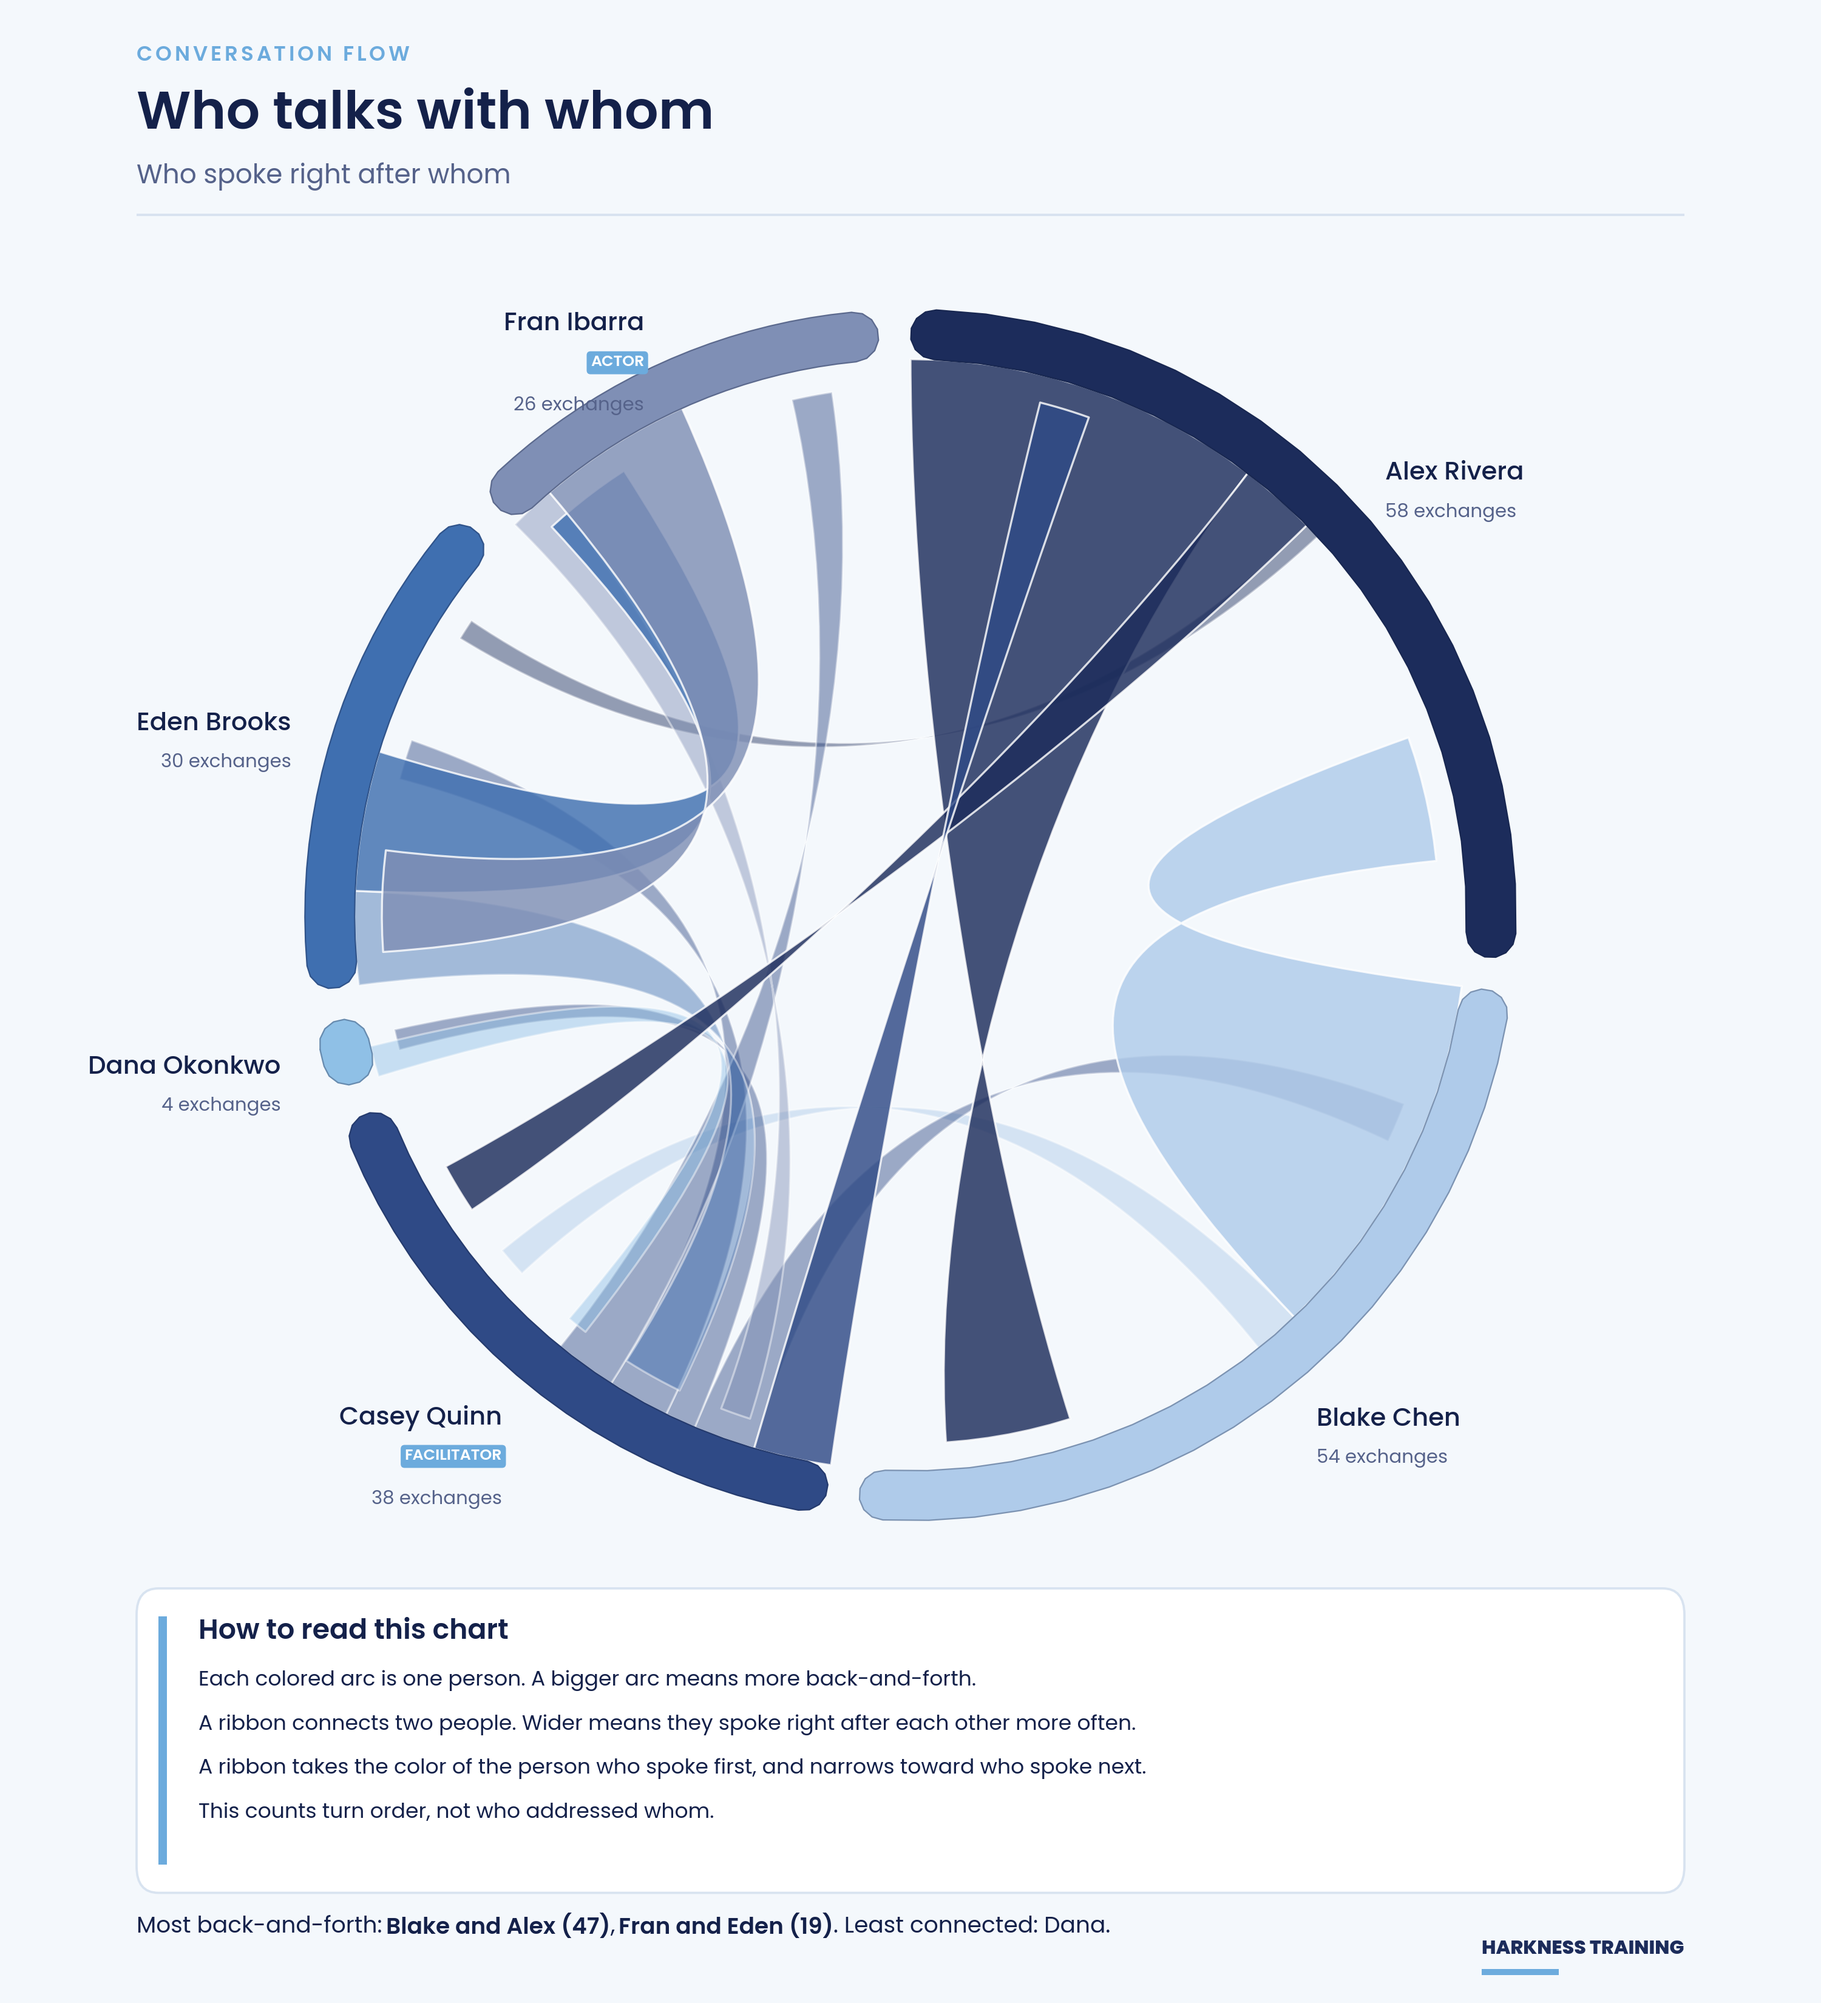
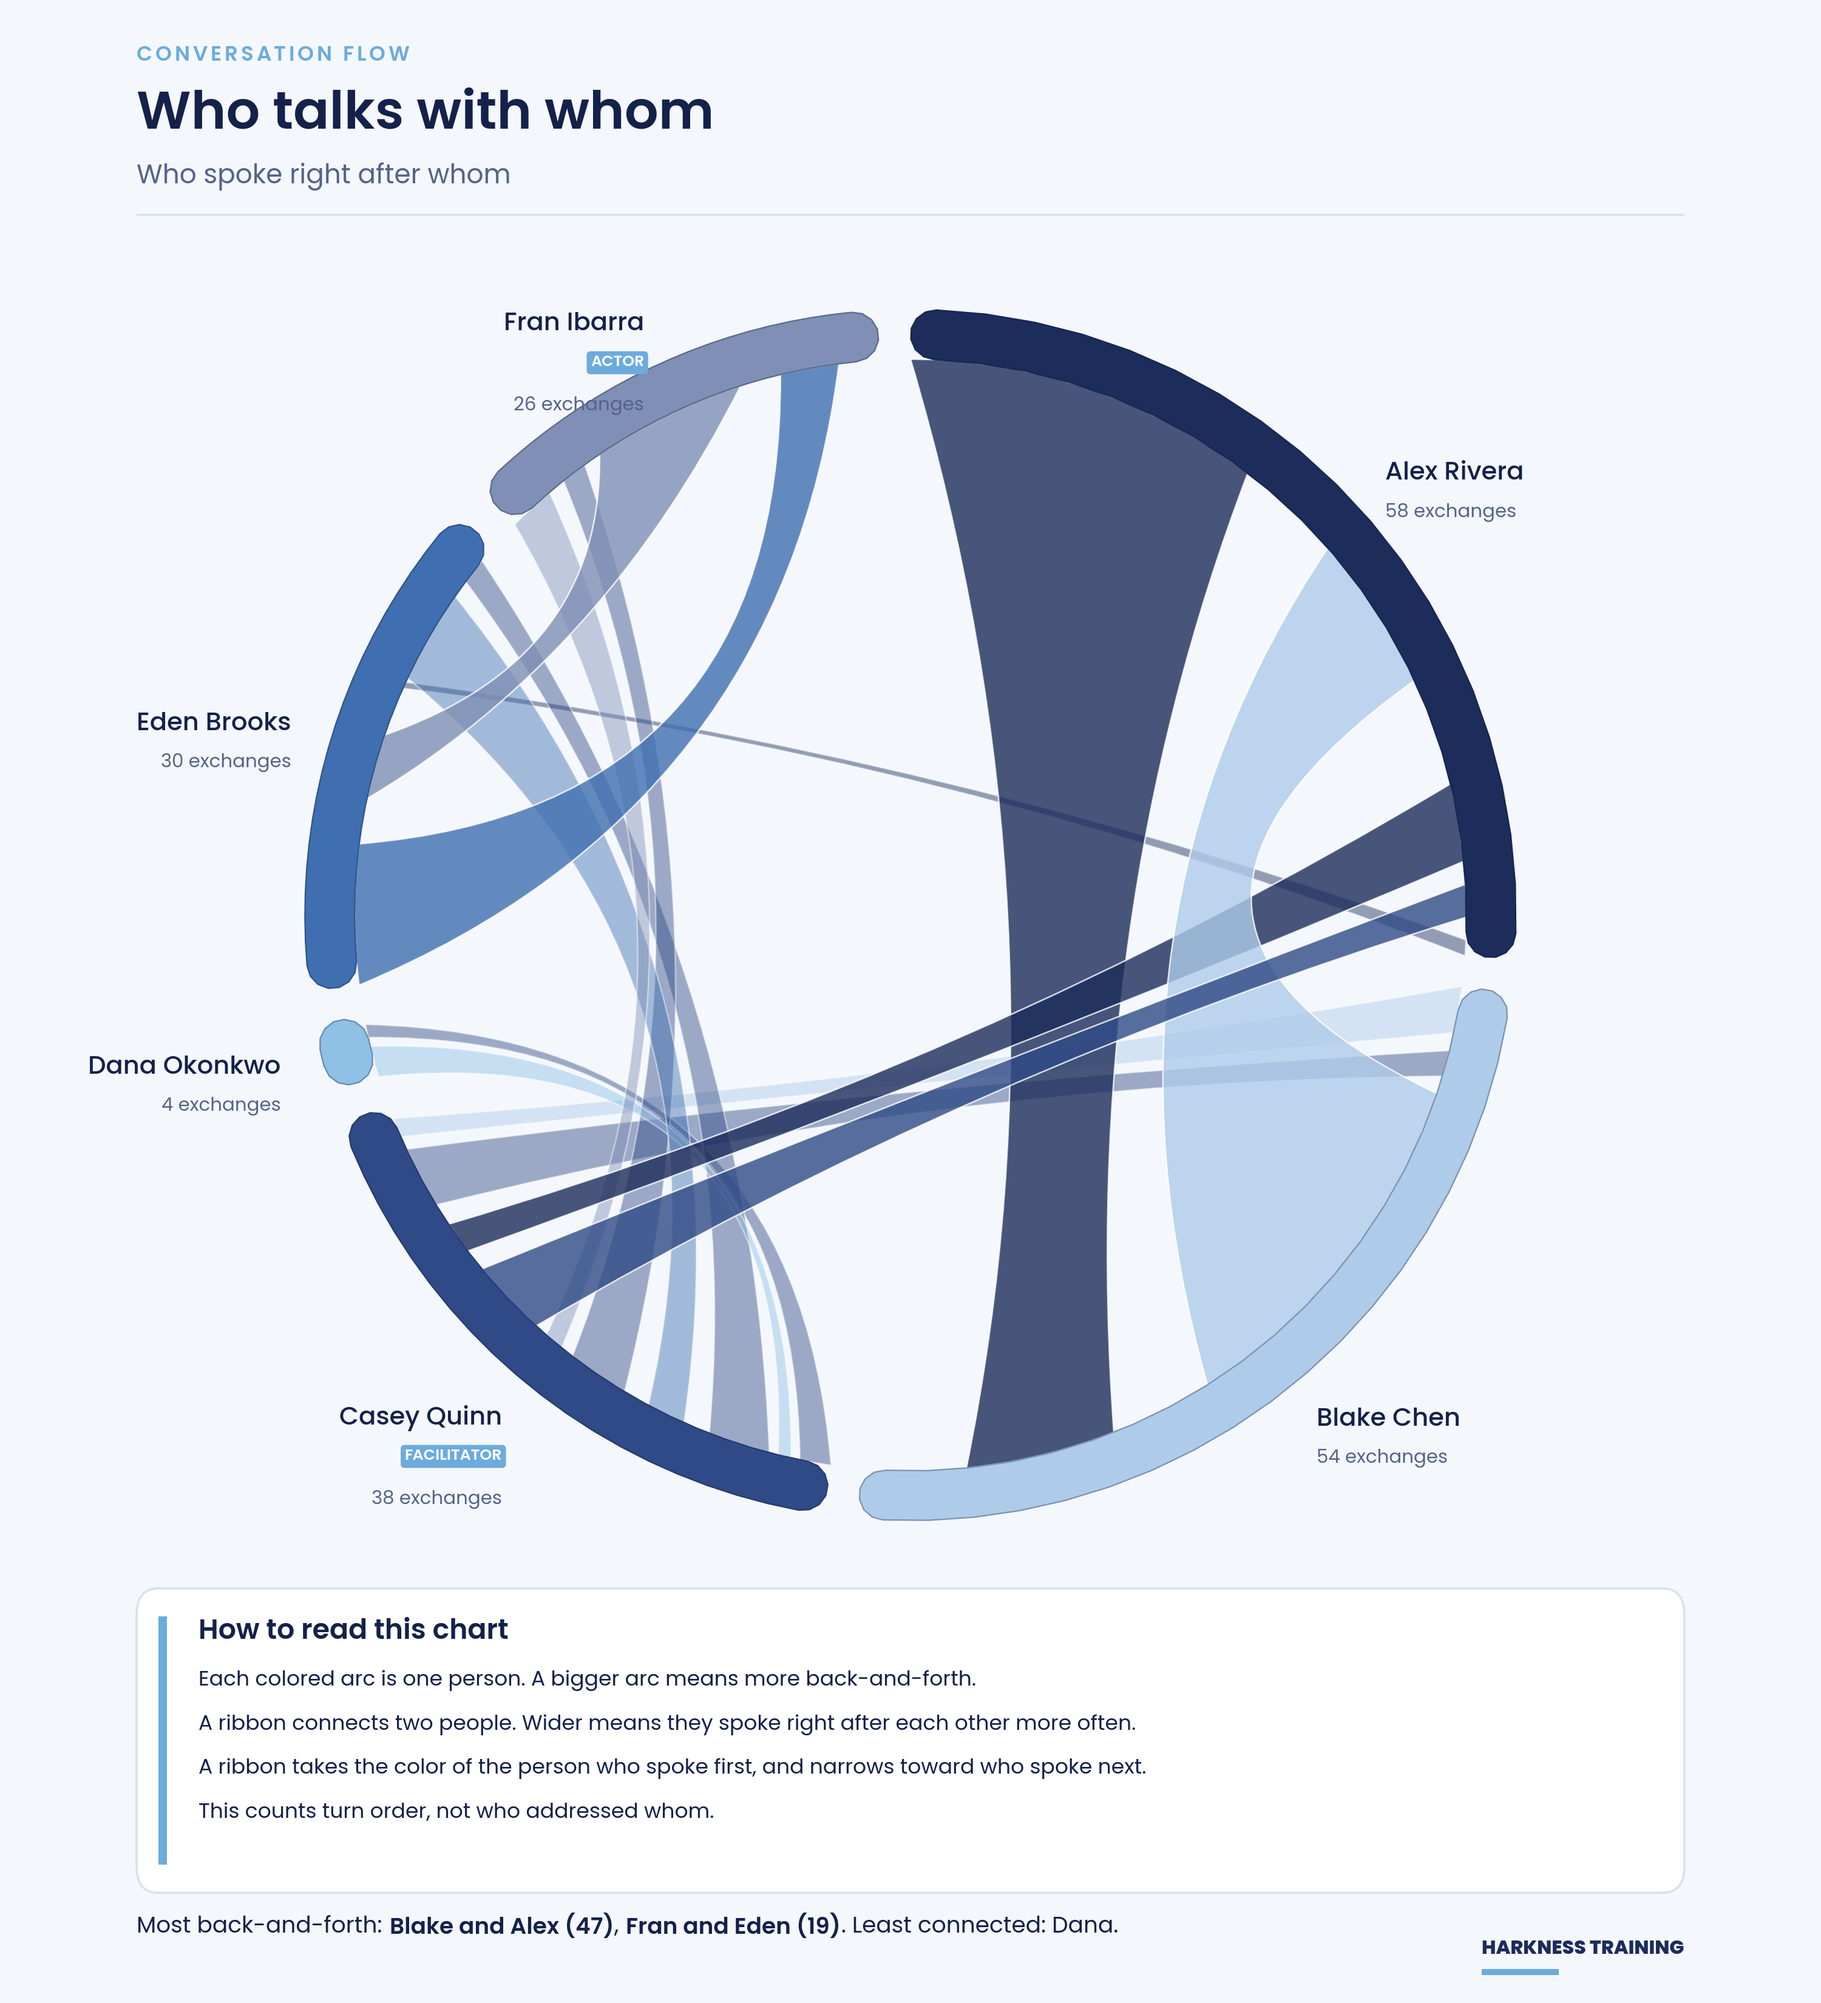
Draw chord ribbons as bands that meet both arcs
Each directed flow now runs from a slice of the speaker's arc to a narrower slice on the next person's arc, with both ends on the inner radius. The caption keeps a space after the comma between pairs.

Changed region(s): [[0.186, 0.1873, 0.806, 0.7491], [0.217, 0.9364, 0.589, 0.9676]]

diff --git a/lib/chord_diagram.py b/lib/chord_diagram.py
@@ -276,20 +276,40 @@ def _arc_layout(arcs: list[int]) -> list[tuple[float, float]]:
     return spans
 
 
-def _ribbon_slices(
-    low: float, high: float, weights: list[tuple[int, int]], arc_total: int
-) -> dict[int, tuple[float, float]]:
-    """Map each partner index to the angular slice it occupies on this arc."""
-    slices: dict[int, tuple[float, float]] = {}
-    if arc_total <= 0 or high <= low:
-        return slices
-    cursor = high
-    span = high - low
-    for partner, weight in weights:
-        width = span * (weight / arc_total)
-        slices[partner] = (cursor - width, cursor)
-        cursor -= width
-    return slices
+def _clockwise_from(origin: float, angle: float) -> float:
+    return (origin - angle) % (2 * math.pi)
+
+
+def _allocate_arc_ends(
+    spans: list[tuple[float, float]], directed: list[list[int]]
+) -> list[dict[tuple[str, int], tuple[float, float]]]:
+    """Subdivide each arc into the directed flows that touch that person.
+
+    Outgoing and incoming segments are ordered by the other person's angle so
+    neighboring ribbons sit next to each other instead of crossing.
+    """
+    allocated = []
+    for person, (low, high) in enumerate(spans):
+        flows = []
+        for other, (other_low, other_high) in enumerate(spans):
+            if other == person:
+                continue
+            other_mid = (other_low + other_high) / 2
+            if directed[person][other] > 0:
+                flows.append((other_mid, 0, other, 'out', directed[person][other]))
+            if directed[other][person] > 0:
+                flows.append((other_mid, 1, other, 'in', directed[other][person]))
+        flows.sort(key=lambda item: (_clockwise_from(high, item[0]), item[1]))
+        total = sum(item[4] for item in flows) or 1
+        span = high - low
+        cursor = high
+        slots: dict[tuple[str, int], tuple[float, float]] = {}
+        for _mid, _order, other, kind, weight in flows:
+            width = span * (weight / total)
+            slots[(kind, other)] = (cursor - width, cursor)
+            cursor -= width
+        allocated.append(slots)
+    return allocated
 
 
 def _polar(angle: float, radius: float) -> tuple[float, float]:
@@ -310,49 +330,82 @@ def _arc_points(start: float, end: float, radius: float, steps: int = 10) -> lis
     ]
 
 
-def _directed_ribbon(source: tuple[float, float], target_angle: float, radius: float) -> MplPath:
-    """A tapered bezier from the speaker to who spoke next.
+def _target_span(source: tuple[float, float], incoming: tuple[float, float]) -> tuple[float, float]:
+    """A narrower segment centered on the incoming slot, still on that arc."""
+    source_width = max(source[1] - source[0], 1e-4)
+    slot_low, slot_high = incoming
+    slot_width = max(slot_high - slot_low, 1e-4)
+    desired = source_width * 0.42
+    if desired < 0.01:
+        desired = min(source_width, slot_width)
+    width = min(desired, slot_width)
+    center = (slot_low + slot_high) / 2
+    return (center - width / 2, center + width / 2)
 
-    Control points stay inside the disk. A bezier stays in the convex hull of its
-    controls, and that hull cannot reach a neighboring arc, so a ribbon between
-    neighbors cannot loop back along the rim.
+
+def _directed_ribbon(
+    source: tuple[float, float],
+    target: tuple[float, float] | float,
+    radius: float,
+) -> MplPath:
+    """A chord band. Both ends lie on the inner radius; the sides bow inward.
+
+    ``target`` may be a span ``(low, high)`` or a single angle, which becomes a
+    short span. Neighboring arcs get a shallower bow so the band stays near the rim.
     """
-    start, end = sorted(source)
-    mid = (start + end) / 2
-    separation = _angular_separation(mid, target_angle)
-    # A moderate bow: deep enough to stay off the rim, shallow enough to read as a band.
-    fraction = 0.20 + 0.24 * (separation / math.pi) ** 0.85
-    if separation < 0.55:
-        fraction = 0.14
-    tip_radius = radius - 0.045
-    source_width = max(end - start, 0.045)
-    # Gentle taper. The far end stays a band, not a point or an arrowhead.
-    half_tip = min(max(source_width * 0.34, 0.02), 0.12)
-    tip_low = target_angle - half_tip
-    tip_high = target_angle + half_tip
+    source_low, source_high = sorted(source)
+    if isinstance(target, tuple):
+        target_low, target_high = sorted(target)
+    else:
+        half = max((source_high - source_low) * 0.21, 0.012)
+        target_low, target_high = target - half, target + half
+    source_mid = (source_low + source_high) / 2
+    target_mid = (target_low + target_high) / 2
+    separation = _angular_separation(source_mid, target_mid)
+    # One shared control keeps the band from pinching. Neighbors stay shallower.
+    pull = 0.72 if separation < 0.9 else 0.30
+    delta = (target_mid - source_mid + math.pi) % (2 * math.pi) - math.pi
+    shared = _polar(source_mid + delta / 2, radius * pull)
 
-    def control(angle: float) -> tuple[float, float]:
-        return _polar(angle, radius * fraction)
+    def add_arc(vertices, codes, start: float, end: float) -> None:
+        points = _arc_points(start, end, radius, steps=18)
+        if end < start:
+            points.reverse()
+        for point in points[1:]:
+            vertices.append(point)
+            codes.append(MplPath.LINETO)
 
-    vertices: list[tuple[float, float]] = [
-        _polar(end, radius),
-        control(end),
-        control(tip_high),
-        _polar(tip_high, tip_radius),
-    ]
-    codes = [MplPath.MOVETO, MplPath.CURVE4, MplPath.CURVE4, MplPath.CURVE4]
-    # Short rounded end. The high tip is already the current point.
-    for point in list(reversed(_arc_points(tip_low, tip_high, tip_radius, steps=7)))[1:]:
-        vertices.append(point)
-        codes.append(MplPath.LINETO)
-    vertices.extend([control(tip_low), control(start), _polar(start, radius)])
-    codes.extend([MplPath.CURVE4, MplPath.CURVE4, MplPath.CURVE4])
-    for point in _arc_points(start, end, radius, steps=16)[1:-1]:
-        vertices.append(point)
-        codes.append(MplPath.LINETO)
+    def add_quadratic(vertices, codes, end_angle: float) -> None:
+        vertices.append(shared)
+        vertices.append(_polar(end_angle, radius))
+        codes.extend([MplPath.CURVE3, MplPath.CURVE3])
+
+    # Connecting low-to-low can twist the band into a bowtie. Swap ends when the chords cross.
+    if _chords_cross(source_low, target_low, source_high, target_high):
+        first_target, second_target = target_high, target_low
+    else:
+        first_target, second_target = target_low, target_high
+    vertices = [_polar(source_high, radius)]
+    codes = [MplPath.MOVETO]
+    add_arc(vertices, codes, source_high, source_low)
+    add_quadratic(vertices, codes, first_target)
+    add_arc(vertices, codes, first_target, second_target)
+    add_quadratic(vertices, codes, source_high)
     vertices.append(vertices[0])
     codes.append(MplPath.CLOSEPOLY)
     return MplPath(vertices, codes)
+
+
+def _chords_cross(a0: float, b0: float, a1: float, b1: float) -> bool:
+    def orient(p, q, r) -> float:
+        return (q[0] - p[0]) * (r[1] - p[1]) - (q[1] - p[1]) * (r[0] - p[0])
+
+    start_a, end_a = _polar(a0, 1.0), _polar(b0, 1.0)
+    start_b, end_b = _polar(a1, 1.0), _polar(b1, 1.0)
+    return (
+        orient(start_a, end_a, start_b) * orient(start_a, end_a, end_b) < 0
+        and orient(start_b, end_b, start_a) * orient(start_b, end_b, end_a) < 0
+    )
 
 
 @lru_cache(maxsize=None)
@@ -538,7 +591,7 @@ def _caption_runs(caption: str) -> list[tuple[str, str]]:
     for match in _PAIR_PATTERN.finditer(caption):
         if match.start() > position:
             runs.append((caption[position : match.start()], 'regular'))
-        runs.append((match.group().strip(), 'semibold'))
+        runs.append((match.group().lstrip(), 'semibold'))
         position = match.end()
     if position < len(caption):
         runs.append((caption[position:], 'regular'))
@@ -558,12 +611,14 @@ def _draw_caption(figure, caption: str, x: float, y: float, width: float) -> flo
     runs = _caption_runs(caption)
     for index, (text, weight) in enumerate(runs):
         prop = semibold if weight == 'semibold' else regular
-        piece = text
+        piece = text.rstrip()
+        if piece == '':
+            continue
         token_width = _text_width(piece, prop, size) / figure_points
         if cursor_x > x and cursor_x + token_width > limit:
             cursor_x = x
             cursor_y -= line_gap
-            piece = text.lstrip()
+            piece = piece.lstrip()
             if piece == '':
                 continue
             token_width = _text_width(piece, prop, size) / figure_points
@@ -579,9 +634,10 @@ def _draw_caption(figure, caption: str, x: float, y: float, width: float) -> flo
             zorder=4,
         )
         cursor_x += token_width
-        following = runs[index + 1][0] if index + 1 < len(runs) else ''
-        if following and following[0] not in ',.;: ':
-            cursor_x += 1.5 / figure_points
+        # A trailing space is easy to lose between a bold pair and the next word.
+        # Keep the comma tight, then advance one explicit space.
+        if piece.endswith((',', ';', ':')):
+            cursor_x += max(_text_width(' ', regular, size), size * 0.33) / figure_points
     return cursor_y - line_gap
 
 
@@ -732,28 +788,7 @@ def save_chord_diagram(
     spans = _arc_layout(arcs)
     colors = [_color_for(position) for position in range(count)]
     strong = strongest_pair_indexes(directed)
-    slices = []
-    for position, (low, high) in enumerate(spans):
-        outgoing = [
-            (other, directed[position][other]) for other in range(count) if directed[position][other] > 0
-        ]
-        outgoing.sort(key=lambda item: names[item[0]])
-        slices.append(_ribbon_slices(low, high, outgoing, arcs[position]))
-
-    landings: list[dict[int, float]] = []
-    for target, (low, high) in enumerate(spans):
-        sources = [source for source in range(count) if directed[source][target] > 0]
-        spots: dict[int, float] = {}
-        if len(sources) == 1:
-            spots[sources[0]] = (low + high) / 2
-        elif sources:
-            pad = (high - low) * 0.18
-            usable = max(high - low - 2 * pad, (high - low) * 0.5)
-            start = low + (high - low - usable) / 2
-            step = usable / (len(sources) - 1)
-            for index, source in enumerate(sources):
-                spots[source] = start + step * index
-        landings.append(spots)
+    ends = _allocate_arc_ends(spans, directed)
 
     figure_width, figure_height = 10.0, 11.0
     figure = plt.figure(figsize=(figure_width, figure_height), facecolor=LIGHT)
@@ -780,21 +815,23 @@ def save_chord_diagram(
     for source in range(count):
         for target in range(count):
             weight = directed[source][target]
-            if weight <= 0 or target not in slices[source] or source not in landings[target]:
+            source_span = ends[source].get(('out', target))
+            incoming_span = ends[target].get(('in', source))
+            if weight <= 0 or source_span is None or incoming_span is None:
                 continue
             pair = tuple(sorted((source, target)))
             emphasized = pair in strong
-            drawings.append((2 if emphasized else 1, source, target, emphasized))
+            drawings.append((2 if emphasized else 1, source, target, source_span, incoming_span, emphasized))
     drawings.sort(key=lambda item: item[0])
 
-    for rank, source, target, emphasized in drawings:
-        alpha = 0.82 if emphasized else 0.45
+    for rank, source, target, source_span, incoming_span, emphasized in drawings:
+        alpha = 0.80 if emphasized else 0.45
         axis.add_patch(
             PathPatch(
-                _directed_ribbon(slices[source][target], landings[target][source], inner),
+                _directed_ribbon(source_span, _target_span(source_span, incoming_span), inner),
                 facecolor=colors[source],
                 edgecolor=WHITE,
-                linewidth=0.8,
+                linewidth=0.6,
                 alpha=alpha,
                 joinstyle='round',
                 capstyle='round',
